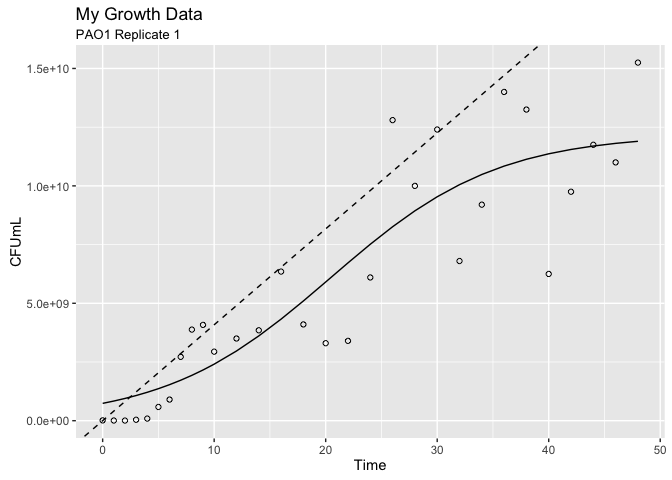
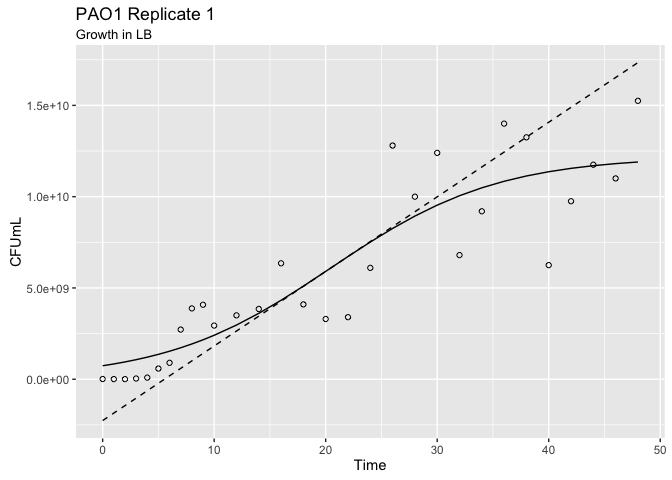
Misc updates
- Renamed the Std. Error columns in as.data.frame.gcfig
- Added more parameters to autoplot.gcfit and fixed a bug with max
  growth rate tangent
- Added show_curve parameter to plot.gcfit. Needs work.

diff --git a/README.md b/README.md
@@ -88,13 +88,12 @@ R's base graphics or
 
     library(ggplot2)
 
-    autoplot(myfit, ytrans = "identity", title = "My Growth Data", subtitle = "PAO1 Replicate 1")
+    autoplot(myfit, ytrans = "identity", title = "PAO1 Replicate 1", subtitle = "Growth in LB")
 
 ![](figures/ggplot_autoplot-1.png)
 
-With ggplot, we can add growth curves to plots using `stat_growthcurve`.
-
-    library(ggplot2)
+Alternatively, we can add growth curves to a ggplot2 plot with
+`stat_growthcurve`:
 
     pao1data <- filter(pseudomonas, Strain == "PAO1")
     ggplot(data = pao1data, aes(x = Time, y = CFUmL, color = Replicate)) +
